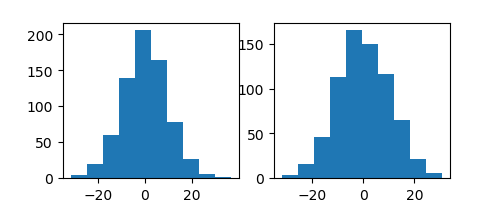
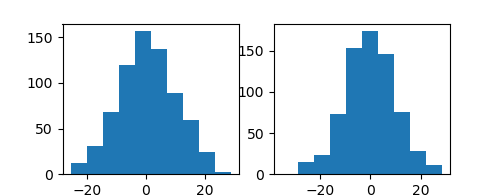
turns out I was sampling from the prior. now I'm trying to not do that

diff --git a/HW3/fromJason/graph_based_sampling.py b/HW3/fromJason/graph_based_sampling.py
@@ -194,9 +194,12 @@ def bbvi_eval(node,expr,sigma,trace):
         dist_obj0  = deterministic_eval(link_expr)
         dist_obj = dist_obj0.make_copy_with_grads()
 
-        if  node not in list(sigma['q'].keys()):
+        if  node not in list(sigma['q'].keys()): #once initialized it never gets reinitialised
             sigma['q'][node] = dist_obj
+            # print('torch optimisation parameters: ',str(torch.optim.Adam(dist_obj.Parameters(), lr=1e-2)))
             sigma['opt'][node] = torch.optim.Adam(dist_obj.Parameters(), lr=1e-2)
+        else:
+            sigma['opt'][node] = torch.optim.Adam(sigma['q'][node].Parameters(), lr=1e-2)
         
         c = sigma['q'][node].sample()
         lp = sigma['q'][node].log_prob(c)
@@ -226,7 +229,7 @@ def bbvi_eval(node,expr,sigma,trace):
 
 def elbo_grad(Gl,logWl):
     nodes = list(set([list(G.keys())[i] for G in Gl for i in range(len(list(G.keys())))]))
-    g_hat = []
+    g_hat = {}
     L = len(logWl)
     for node in nodes:
         F = []
@@ -238,7 +241,8 @@ def elbo_grad(Gl,logWl):
                 Gl[l][node] = torch.tensor([0.,0.])
         # print(F)
         b_hat = sum([np.cov(torch.multiply(F[l],torch.tensor(Gl[l][node]))) for l in range(L)])/sum([np.var([Gl[l][node][i] for l in range(L)]) for i in range(len(Gl[l][node]))])
-        g_hat.append(torch.divide(sum(F-torch.multiply(b_hat,[Gl[l][node] for l in range(L)])),L))
+        print('b hat is: ',str(b_hat))
+        g_hat[node] = torch.divide(sum(F-torch.multiply(b_hat,[Gl[l][node] for l in range(L)])),L)
     return g_hat
 
 def bbvi(T,L,graph):
@@ -262,6 +266,7 @@ def bbvi(T,L,graph):
     except:
         num_outputs = 1
 
+    sigma['q'] = {}
     sigma['logW'] = 0
     sigma['G'] = {}
     trace = {}
@@ -282,14 +287,25 @@ def bbvi(T,L,graph):
             Gl.append({**sigma['G']})
             logWl.append(*[sigma['logW']])
         # print('Gl is: ', str(Gl))
+        print('gradients are: ',str(sigma['G']))
+        print('sigma opt is: ',str(sigma['opt']))
+        g_hat = elbo_grad(Gl,logWl)
 
-        for thing in sigma['opt']:
-            thing.step()
-            thing.zero_grad()
+        # NEED TO UPDATE PARAMETER GRADIENTS WITH THE ONES FROM ELBO GRAD
 
+        for node in sigma['opt'].keys():
+            # print('thing is: ',str(thing))
+            p = 0
+            for param in sigma['q'][node].Parameters():
+                param.grad = g_hat[node][p] # update the gradients to be g_hat
+                p = p + 1
+            sigma['opt'][node].step()
+            sigma['opt'][node].zero_grad()
+
+        # print('does q change? ',str(sigma['q']))
         r[t] = [*rl]
         logW[t] = [*logWl]
-    return r,logW,num_outputs
+    return r,logW,sigma['q'],num_outputs
 
 def get_stream(graph):
     """Return a stream of prior samples
@@ -353,8 +369,8 @@ if __name__ == '__main__':
     # run_probabilistic_tests()
     # prog_name = 'MHinGibbs'
     prog_name = 'BBVI'
-    S = 300 # number of samples
-    L = 20 # number of gradient steps
+    S = 1 # number of samples
+    L = 3 # number of gradient steps
 
     for i in range(1,2):
         print('Program ',str(i))
@@ -367,9 +383,12 @@ if __name__ == '__main__':
         elif prog_name == 'BBVI':
             full_output = bbvi(L,S,graph)
             samples = full_output[0]
-            num_outputs = full_output[2]
+            Q = full_output[2]
+            num_outputs = full_output[-1]
+            # print('unsorted samples are: ',str(samples))
             # print('full output is: ',str(full_output))
             # print('number of outputs are: ', str(num_outputs))
+            print('final distribution is: ',str(Q))
             if num_outputs == 1:
                 # converged_samples = [[samples[s][-1] for s in range(S)]]
                 converged_samples = [[samples[-1]]]
@@ -388,7 +407,7 @@ if __name__ == '__main__':
         # print('samples are: ',str(samples))
         print('elapsed time is: ',str(toc-tic))
 
-        print(f'\nExpectation of return values for program {i}:')
+        # print(f'\nExpectation of return values for program {i}:')
         try:
             if prog_name != 'BBVI':
                 N = len(samples[0])
@@ -404,8 +423,9 @@ if __name__ == '__main__':
                     variance[k] = np.var(converged_samples[k])
                     expectation[k] = np.mean(converged_samples[k])
         except:
-            expectation = np.mean(samples)
-            variance = np.var(samples)
+            if i != 4:
+                expectation = np.mean(samples)
+                variance = np.var(samples)
         
         print('expectation after ',str(S),' samples is: ',str(expectation))
         print('variance after ',str(S),' samples is: ',str(variance))

diff --git a/HW3/fromJason/primitives.py b/HW3/fromJason/primitives.py
@@ -109,6 +109,8 @@ def observeS(*vals):
 def sampleS(dist):
     # takes in distribution type variable
     return dist.sample()
+def abs(val):
+    return torch.abs(val)
     
 
 PRIMITIVES = {
@@ -151,5 +153,6 @@ PRIMITIVES = {
     "and": lambda b1, b2: b1 and b2,
     "or": lambda b1, b2: b1 or b2,
     "observeS": observeS,
-    "sampleS": sampleS
+    "sampleS": sampleS,
+    "abs": abs
 }

diff --git a/HW3/fromJason/distributions.py b/HW3/fromJason/distributions.py
@@ -144,6 +144,7 @@ class Gamma(dist.Gamma):
 
 
 
+
 if __name__ == '__main__':
     
     ##how to use this, 
